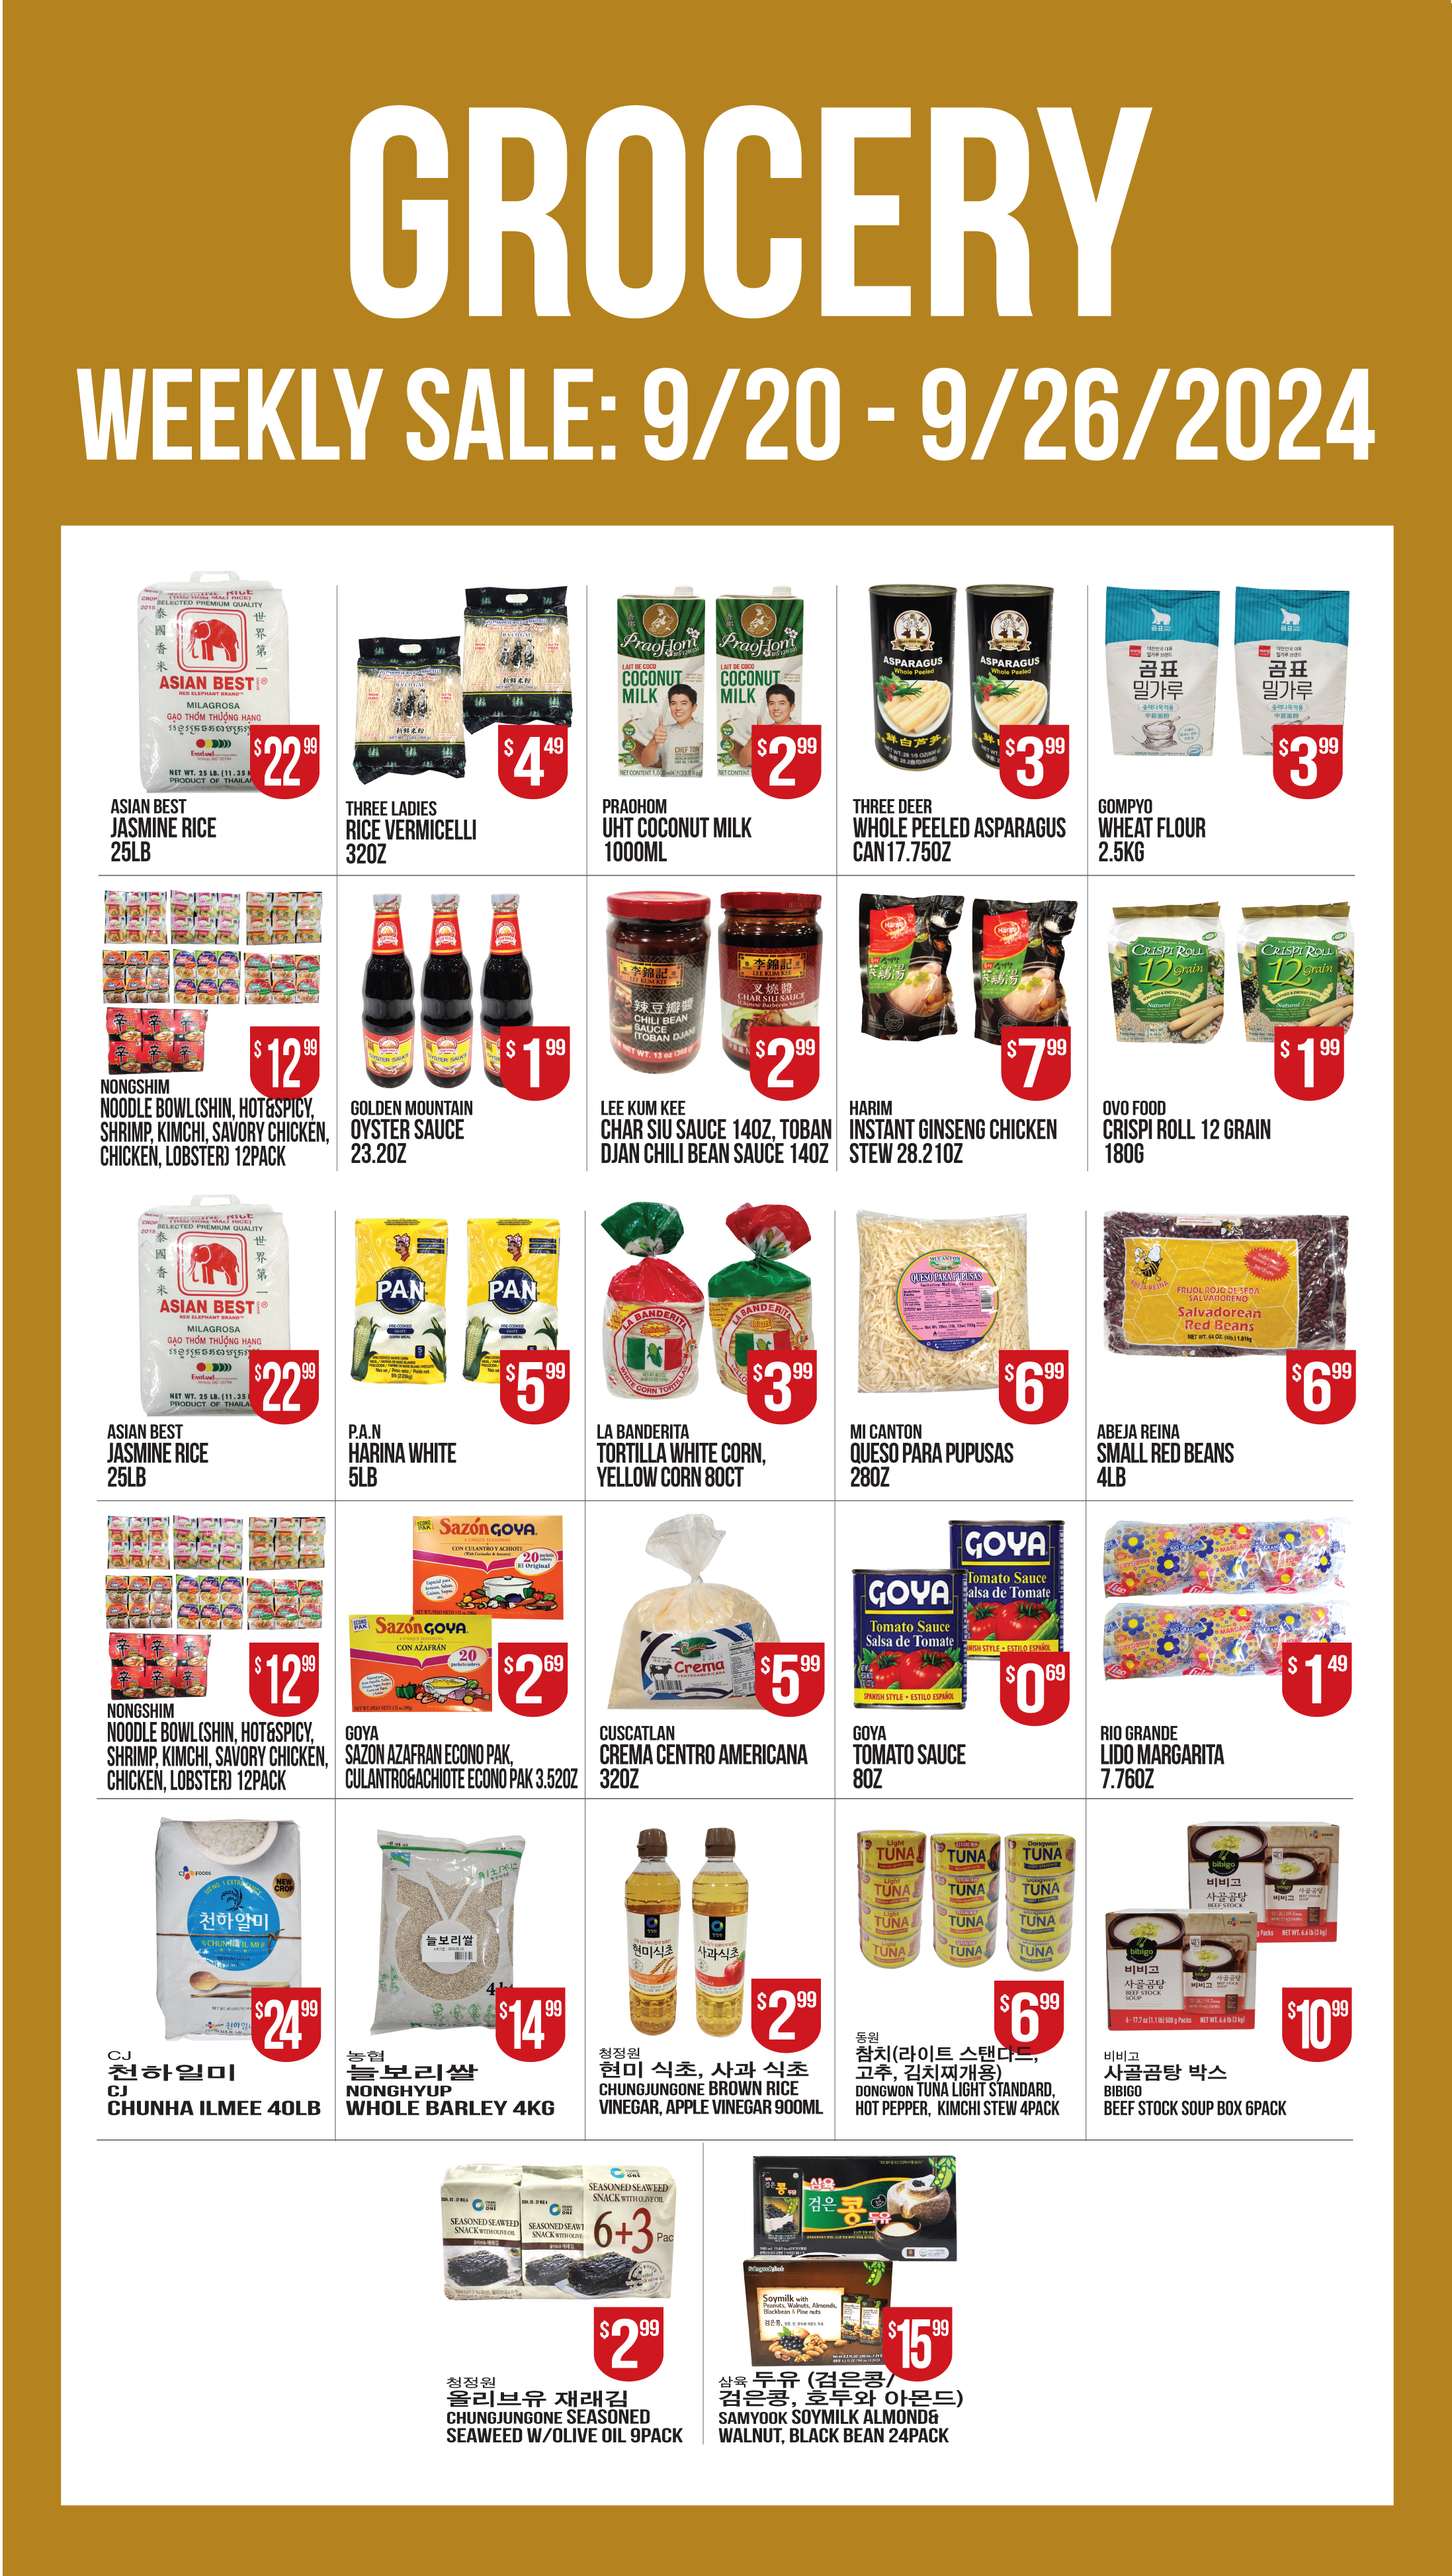
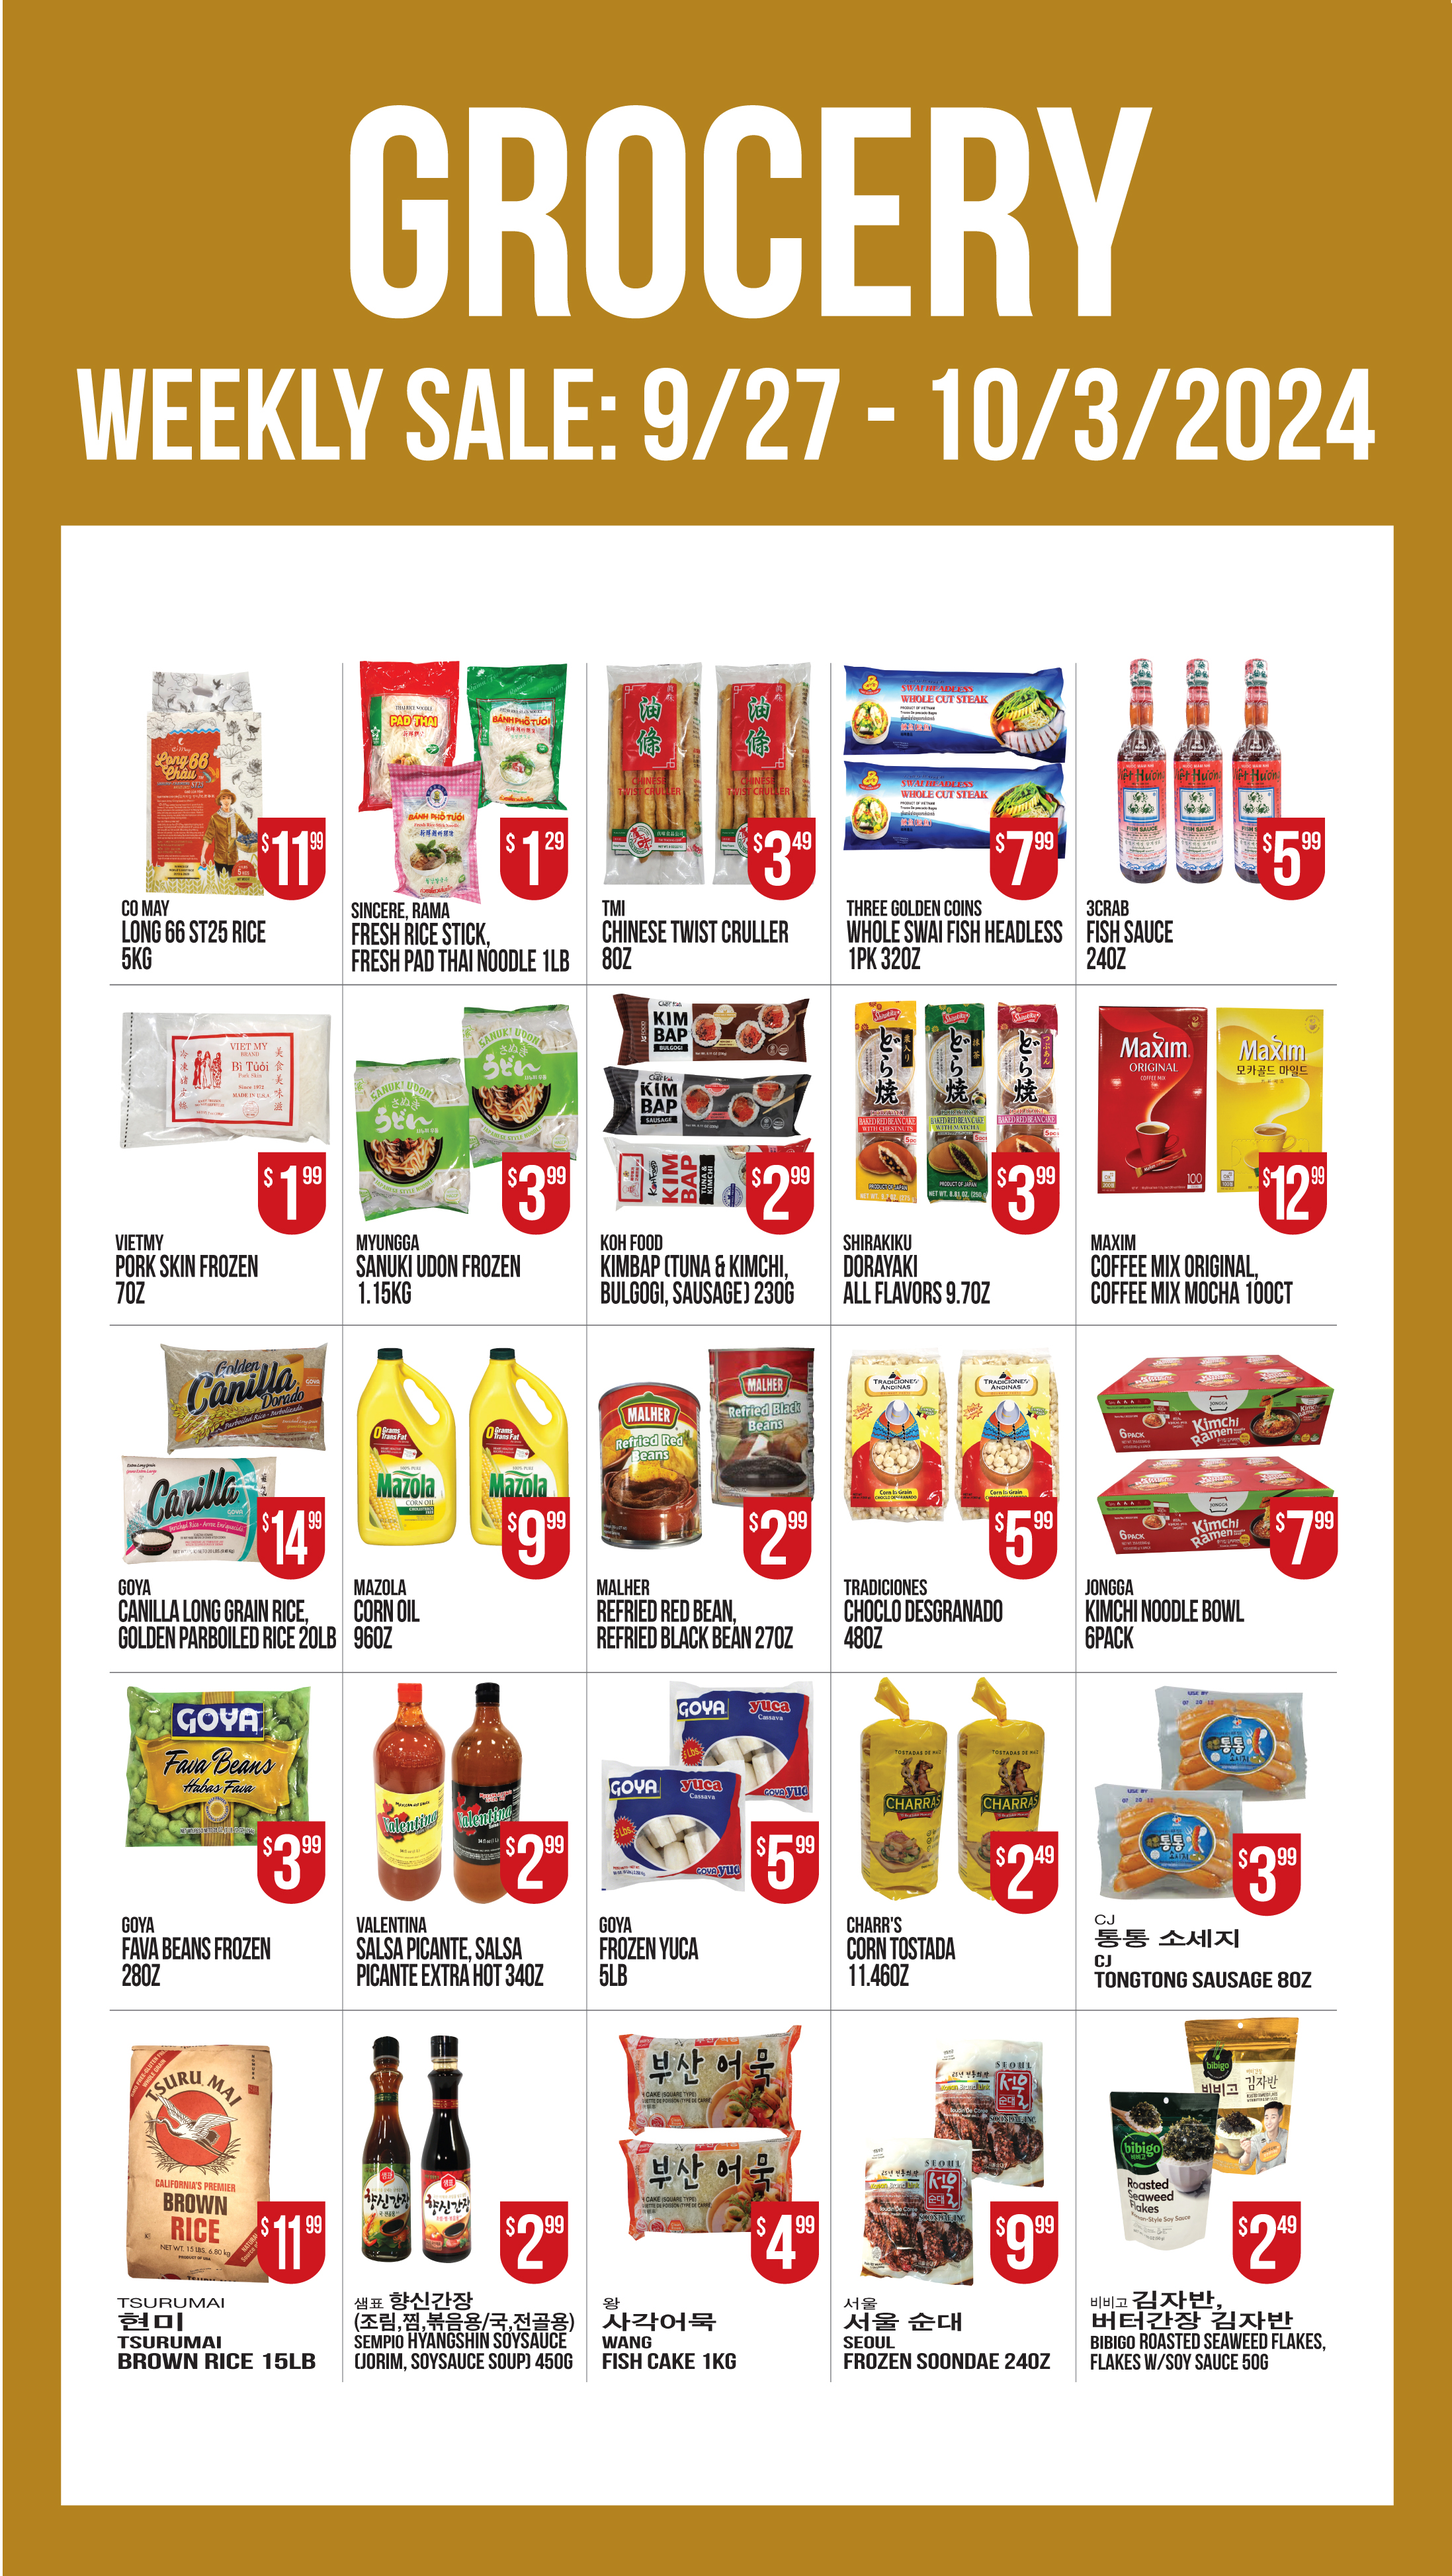
weekly specials

diff --git a/index.html b/index.html
@@ -64,16 +64,16 @@
           <img src="./public/assets/sp.jpg" class="d-block w-100 img-fluid" alt="...">
         </div> -->
         <div class="carousel-item center-carousel active">
-          <img src="./public/assets/weekly/meat.jpg?v=0920" class="img-fluid" alt="...">
+          <img src="./public/assets/weekly/meat.jpg?v=0927" class="img-fluid" alt="...">
         </div>
         <div class="carousel-item center-carousel">
-          <img src="./public/assets/weekly/veg.jpg?v=0920" class="img-fluid" alt="...">
+          <img src="./public/assets/weekly/veg.jpg?v=0927" class="img-fluid" alt="...">
         </div>
         <div class="carousel-item center-carousel">
-          <img src="./public/assets/weekly/fish.jpg?v=0920" class="img-fluid" alt="...">
+          <img src="./public/assets/weekly/fish.jpg?v=0927" class="img-fluid" alt="...">
         </div>
         <div class="carousel-item center-carousel">
-          <img src="./public/assets/weekly/grocery.jpg?v=0920" class="img-fluid" alt="...">
+          <img src="./public/assets/weekly/grocery.jpg?v=0927" class="img-fluid" alt="...">
         </div>
         <!-- <div class="carousel-item center-carousel">
           <img src="./public/assets/sale/grocery2.jpg?v=070623" class="img-fluid" alt="...">

diff --git a/deals.html b/deals.html
@@ -50,15 +50,15 @@
     <div class="row deal">
 
       <h2>English</h2>
-      <img class="img-fluid" src="./public/assets/weekly/english.jpg?v=0920">
+      <img class="img-fluid" src="./public/assets/weekly/english.jpg?v=0927">
 
       <br><br>
       <h2>Spanish</h2>
-      <img class="img-fluid" src="./public/assets/weekly/spanish.jpg?v=0920">
+      <img class="img-fluid" src="./public/assets/weekly/spanish.jpg?v=0927">
 
       <br>
       <h2>Korean</h2>
-      <img class="img-fluid" src="./public/assets/weekly/korean.jpg?v=0920">
+      <img class="img-fluid" src="./public/assets/weekly/korean.jpg?v=0927">
       <br>
       <br>
     </div>
